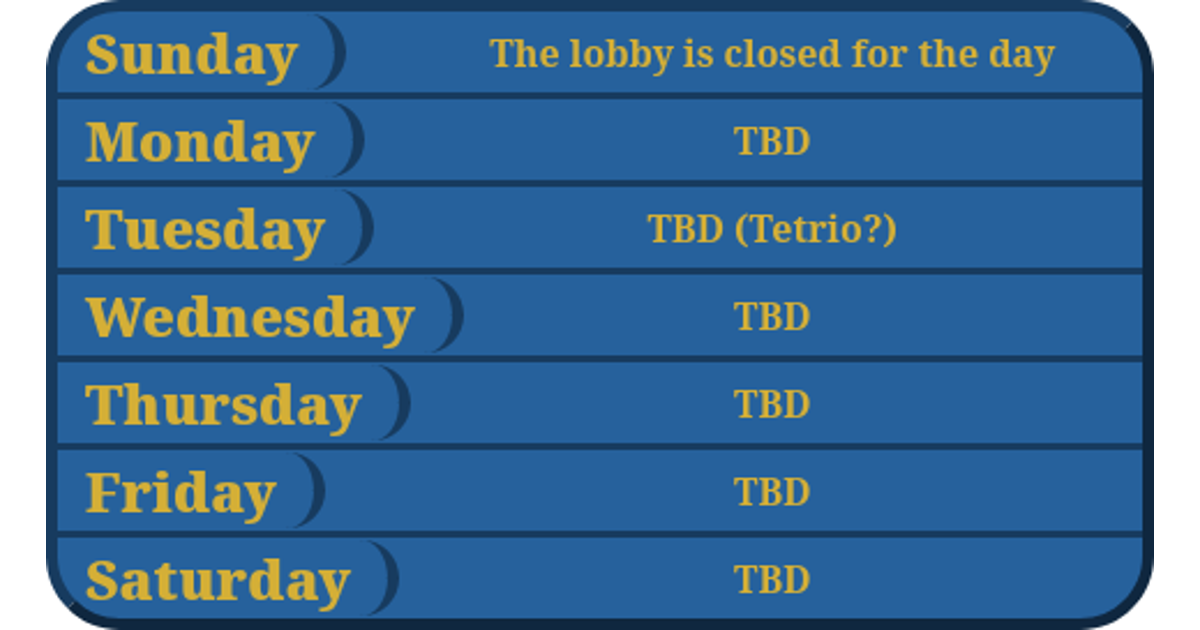
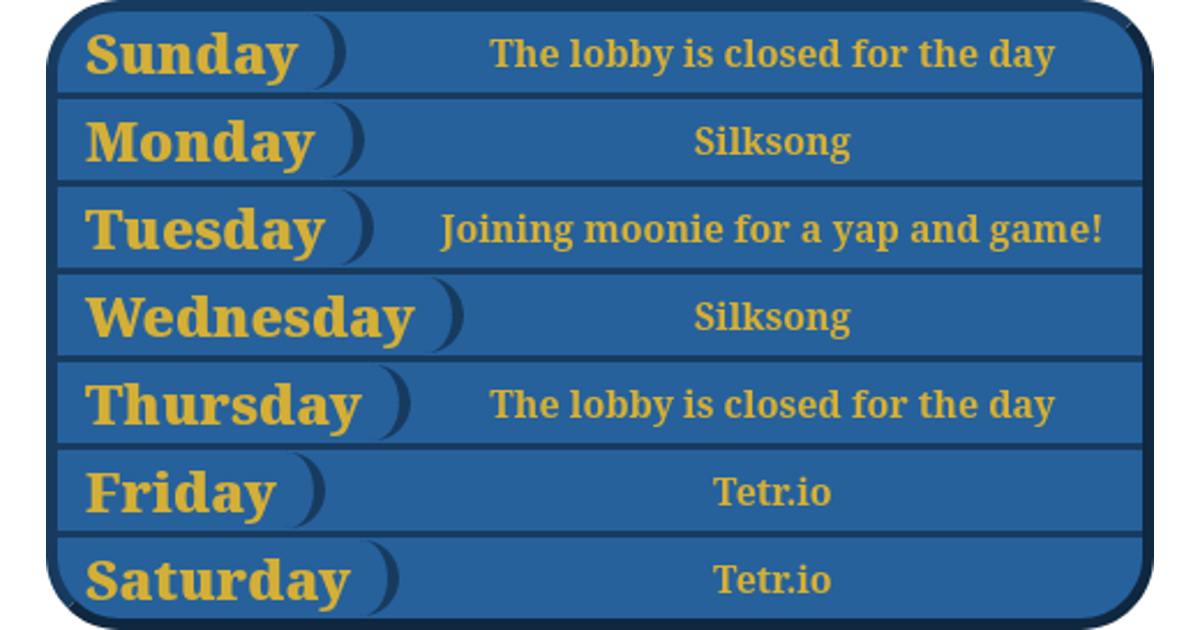
Schedule update and art additions

diff --git a/schedule/index.html b/schedule/index.html
@@ -21,22 +21,22 @@
           <td class="day">Sunday</td><td class="plans">The lobby is closed for the day</td>
         </tr>
         <tr class="row">
-          <td class="day">Monday</td><td class="plans">TBD</td>
+          <td class="day">Monday</td><td class="plans">Silksong</td>
         </tr>
         <tr class="row">
           <td class="day">Tuesday</td><td class="plans">Joining moonie for a yap and game!</td>
         </tr>
         <tr class="row">
-          <td class="day">Wednesday</td><td class="plans">TBD</td>
+          <td class="day">Wednesday</td><td class="plans">Silksong</td>
         </tr>
         <tr class="row">
           <td class="day">Thursday</td><td class="plans">The lobby is closed for the day</td>
         </tr>
         <tr class="row">
-          <td class="day">Friday</td><td class="plans">TBD</td>
+          <td class="day">Friday</td><td class="plans">Tetr.io</td>
         </tr>
         <tr class="row">
-          <td class="day">Saturday</td><td class="plans">TBD</td>
+          <td class="day">Saturday</td><td class="plans">Tetr.io</td>
         </tr>
       </table>
       <hr class="divide">

diff --git a/css/main.css b/css/main.css
@@ -33,7 +33,6 @@ body {
 }
 
 .sign {
-    border: 2px solid #193335;
     height: 100%;
     width: 10rem;
     align-content: center;
